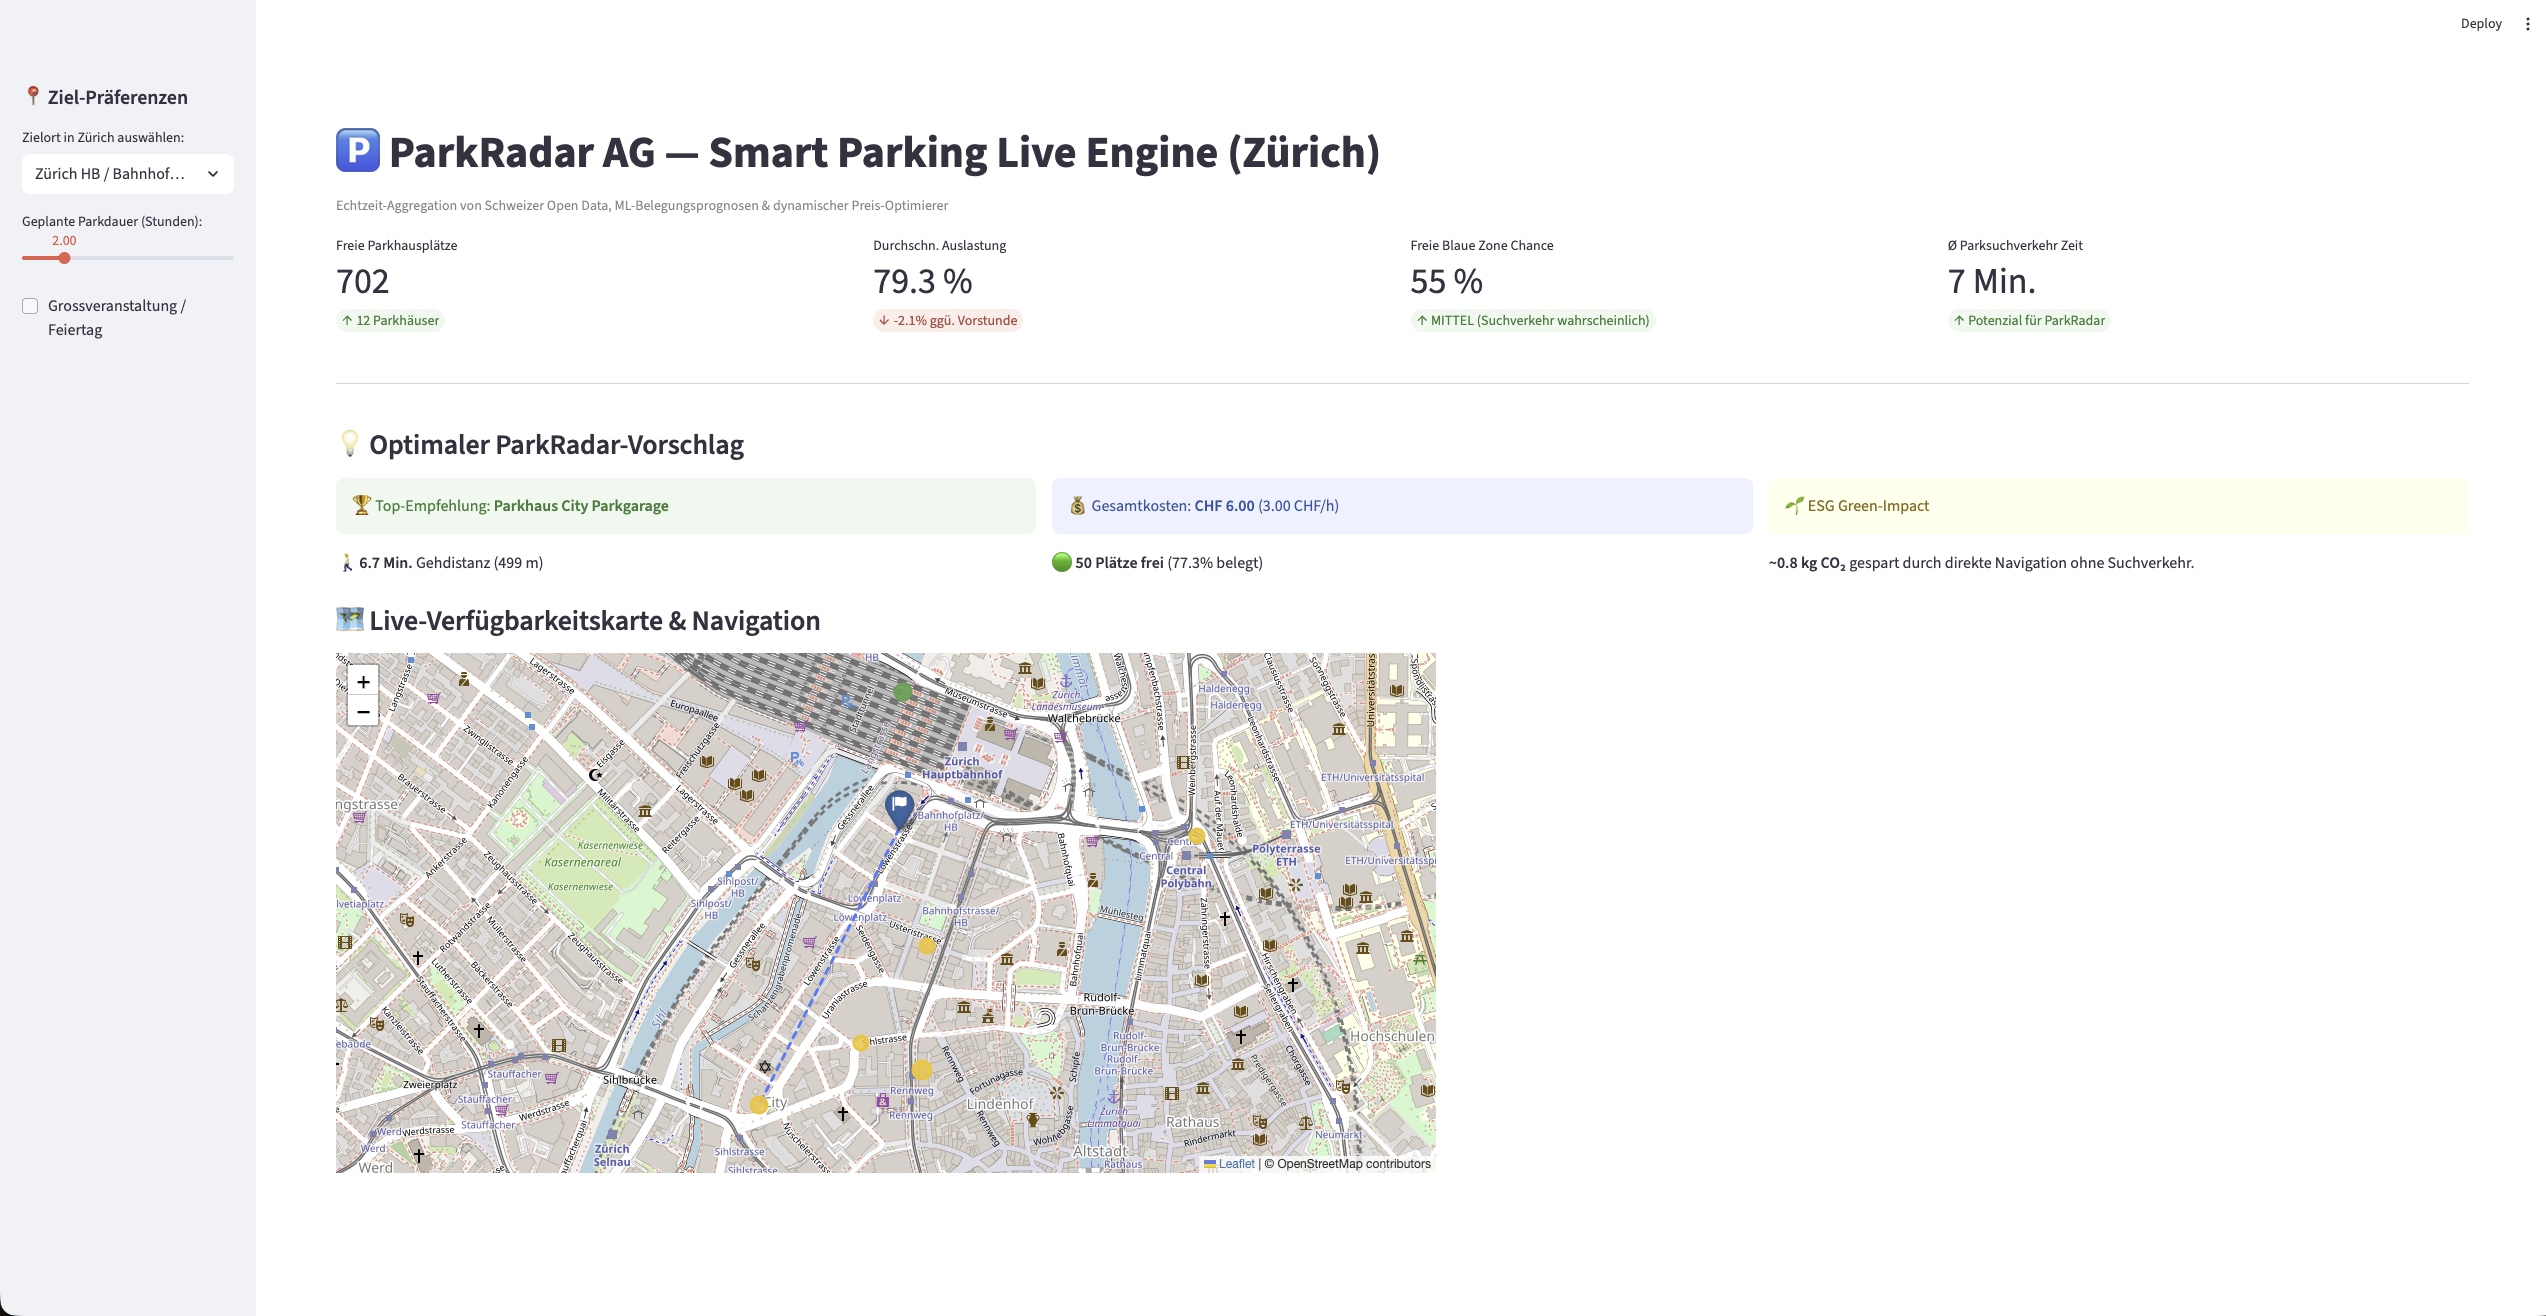
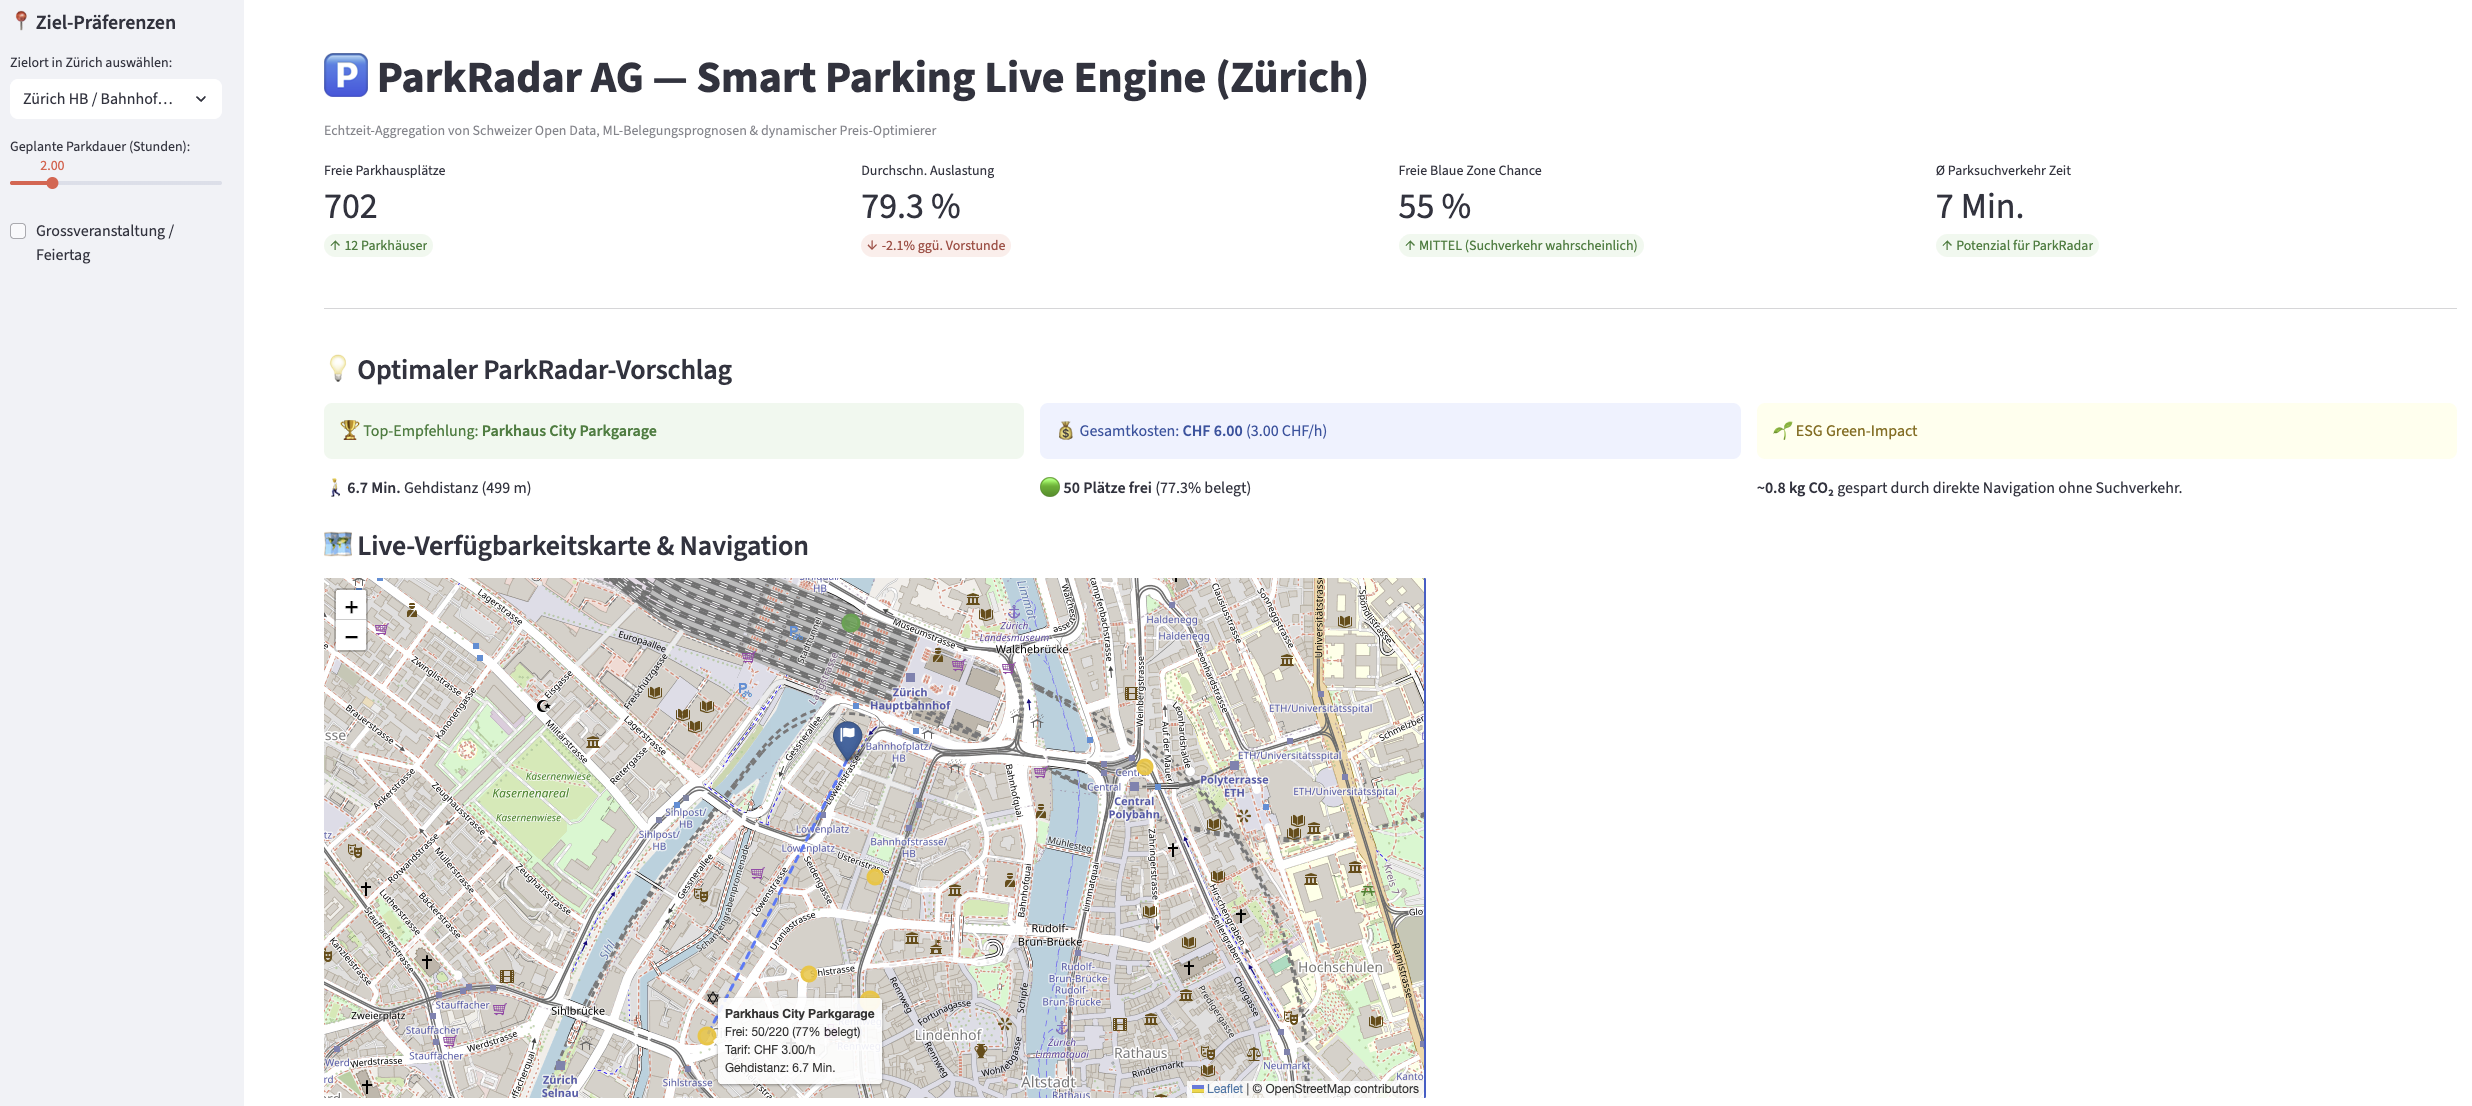
feat: complete ParkRadar engine with Open Data ingestion, ML predictor, optimizer and test suite

diff --git a/README.md b/README.md
@@ -15,12 +15,12 @@
 ## Architecture & Features
 
  ```text
- [Open Data Zurich API] ──┐
-                          ├──> [Data Aggregator] ──> [Price & Walk Optimizer] ──> [Streamlit UI / Folium Map]
- [Weather / Event Flags]  ──┘          │
+ [Open Data Zurich API]   ──┐
+                            ├──> [Data Aggregator] ──> [Price & Walk Optimizer] ──> [Streamlit UI / Folium Map]
+ [Weather / Event Flags]  ──┘           │
                                         ▼
                         [ML RandomForest Regressor]
-                        (Street Parking Probability
+                        (Street Parking Probability)
  ```
 
  - Open Data Ingestion: Aggregates real-time occupancy rates, capacities, and coordinates across major car parks in Zurich.
